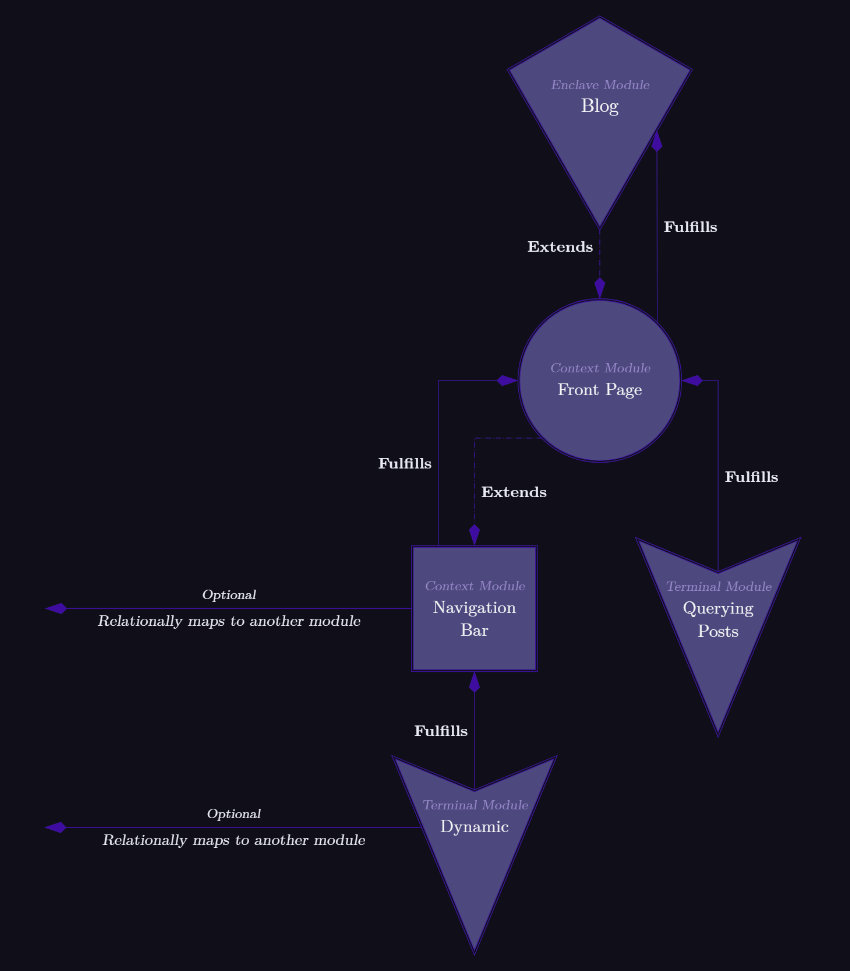
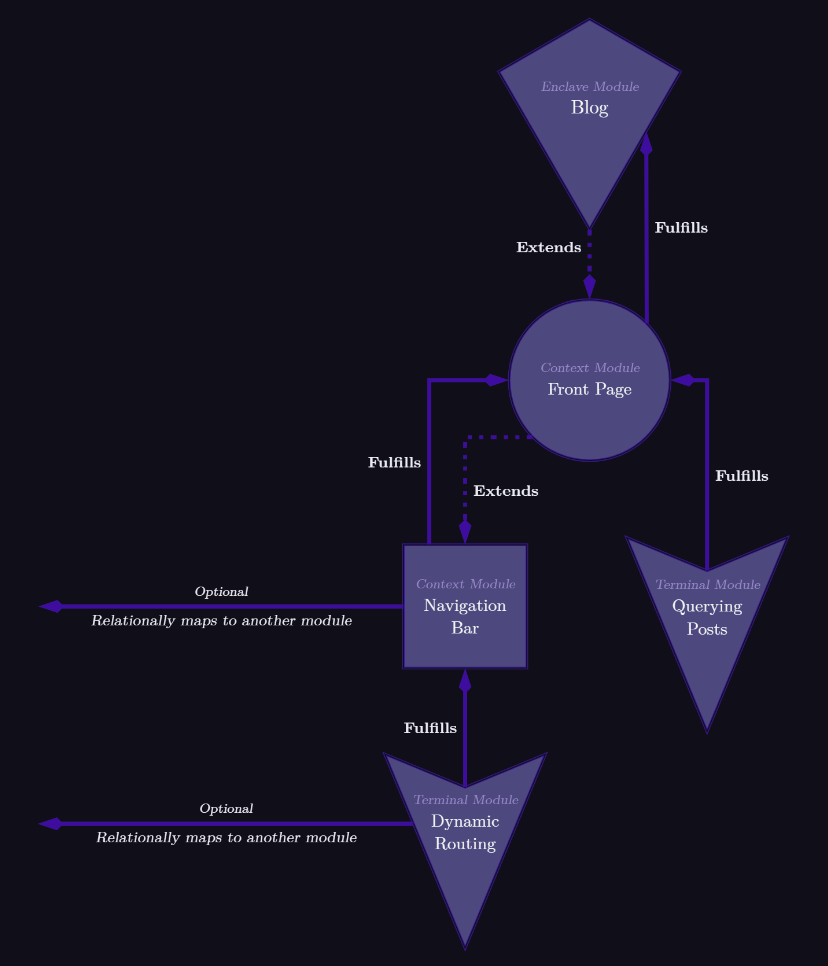
docs(diagram): rectify visual enormity

diff --git a/assets/ADK_Sample.tex b/assets/ADK_Sample.tex
@@ -80,38 +80,38 @@
     fill=gun,
     below=2.9cm of clastic, anchor=center] (otherClastic){};
 
-  \node[align=center] at (otherClastic.center){\scriptsize{\textsl{\textcolor{act}{Terminal Module}}}\\\textcolor{prim}{\small{Dynamic}}\\\textcolor{\small{Routing}}};
+  \node[align=center] at (otherClastic.center){\scriptsize{\textsl{\textcolor{act}{Terminal Module}}}\\\textcolor{prim}{\small{Dynamic}}\\\textcolor{prim}{\small{Routing}}};
 
   % VECTORS
 
-  \draw[-{Kite[scale=2]}, densely dash dot] (domain.south) -- (sphere.north)
+  \draw[line width=2.071pt, -{Kite[scale=0.9]}, loosely dash dot dot] (domain.south) -- (sphere.north)
     node[near start, left]{\footnotesize{\textbf{\textcolor{undying}{Extends}}}};
 
-  \draw[-{Kite[scale=2]}] (pure.west) |- (sphere.east)
+  \draw[line width=2.071pt, -{Kite[scale=0.9]}] (pure.west) |- (sphere.east)
     node[near start, right]{\footnotesize{\textbf{\textcolor{undying}{Fulfills}}}};
 
-  \draw[-{Kite[scale=2]}] (clastic.120) |- (sphere.west)
+  \draw[line width=2.071pt, -{Kite[scale=0.9]}] (clastic.120) |- (sphere.west)
     node[near start, left]{\footnotesize{\textbf{\textcolor{undying}{Fulfills}}}};
 
-  \draw[-{Kite[scale=2]}, densely dash dot] (sphere.south west) -| (clastic.north)
+  \draw[line width=2.071pt, -{Kite[scale=0.9]}, loosely dash dot dot] (sphere.south west) -| (clastic.north)
     node[near end, right]{\footnotesize{\textbf{\textcolor{undying}{Extends}}}};
 
-  \draw[-{Kite[scale=2]}] (otherClastic.west) -- (clastic.south)
+  \draw[line width=2.071pt, -{Kite[scale=0.9]}] (otherClastic.west) -- (clastic.south)
     node[midway, left]{\footnotesize{\textbf{\textcolor{undying}{Fulfills}}}};
 
-  \draw[-{Kite[scale=2]}] (sphere.north east) -- (domain.south east)
+  \draw[line width=2.071pt, -{Kite[scale=0.9]}] (sphere.north east) -- (domain.south east)
     node[midway, right]{\footnotesize{\textbf{\textcolor{undying}{Fulfills}}}};
 
-  \draw[-{Kite[scale=2]}] (otherClastic.south) -- ++ (-7, 0)
+  \draw[line width=2.071pt, -{Kite[scale=0.9]}] (otherClastic.south) -- ++ (-7, 0)
     node[midway, below, align=center]{\footnotesize{\textsl{\textcolor{undying}{{Relationally maps to another module}}}}};
 
-  \draw[-{Kite[scale=2]}] (otherClastic.south) -- ++ (-7, 0)
+  \draw[line width=2.071pt, -{Kite[scale=0.9]}] (otherClastic.south) -- ++ (-7, 0)
     node[midway, above, align=center]{\scriptsize{\textsl{\textcolor{undying}{{Optional}}}}};
 
-  \draw[-{Kite[scale=2]}] (clastic.west) -- ++ (-6.8, 0)
+  \draw[line width=2.071pt, -{Kite[scale=0.9]}] (clastic.west) -- ++ (-6.8, 0)
     node[midway, below]{\footnotesize{\textsl{\textcolor{undying}{{Relationally maps to another module}}}}};
 
-  \draw[-{Kite[scale=2]}] (clastic.west) -- ++ (-6.8, 0)
+  \draw[line width=2.071pt, -{Kite[scale=0.9]}] (clastic.west) -- ++ (-6.8, 0)
     node[midway, above]{\scriptsize{\textsl{\textcolor{undying}{{Optional}}}}};
 
 \end{tikzpicture}
